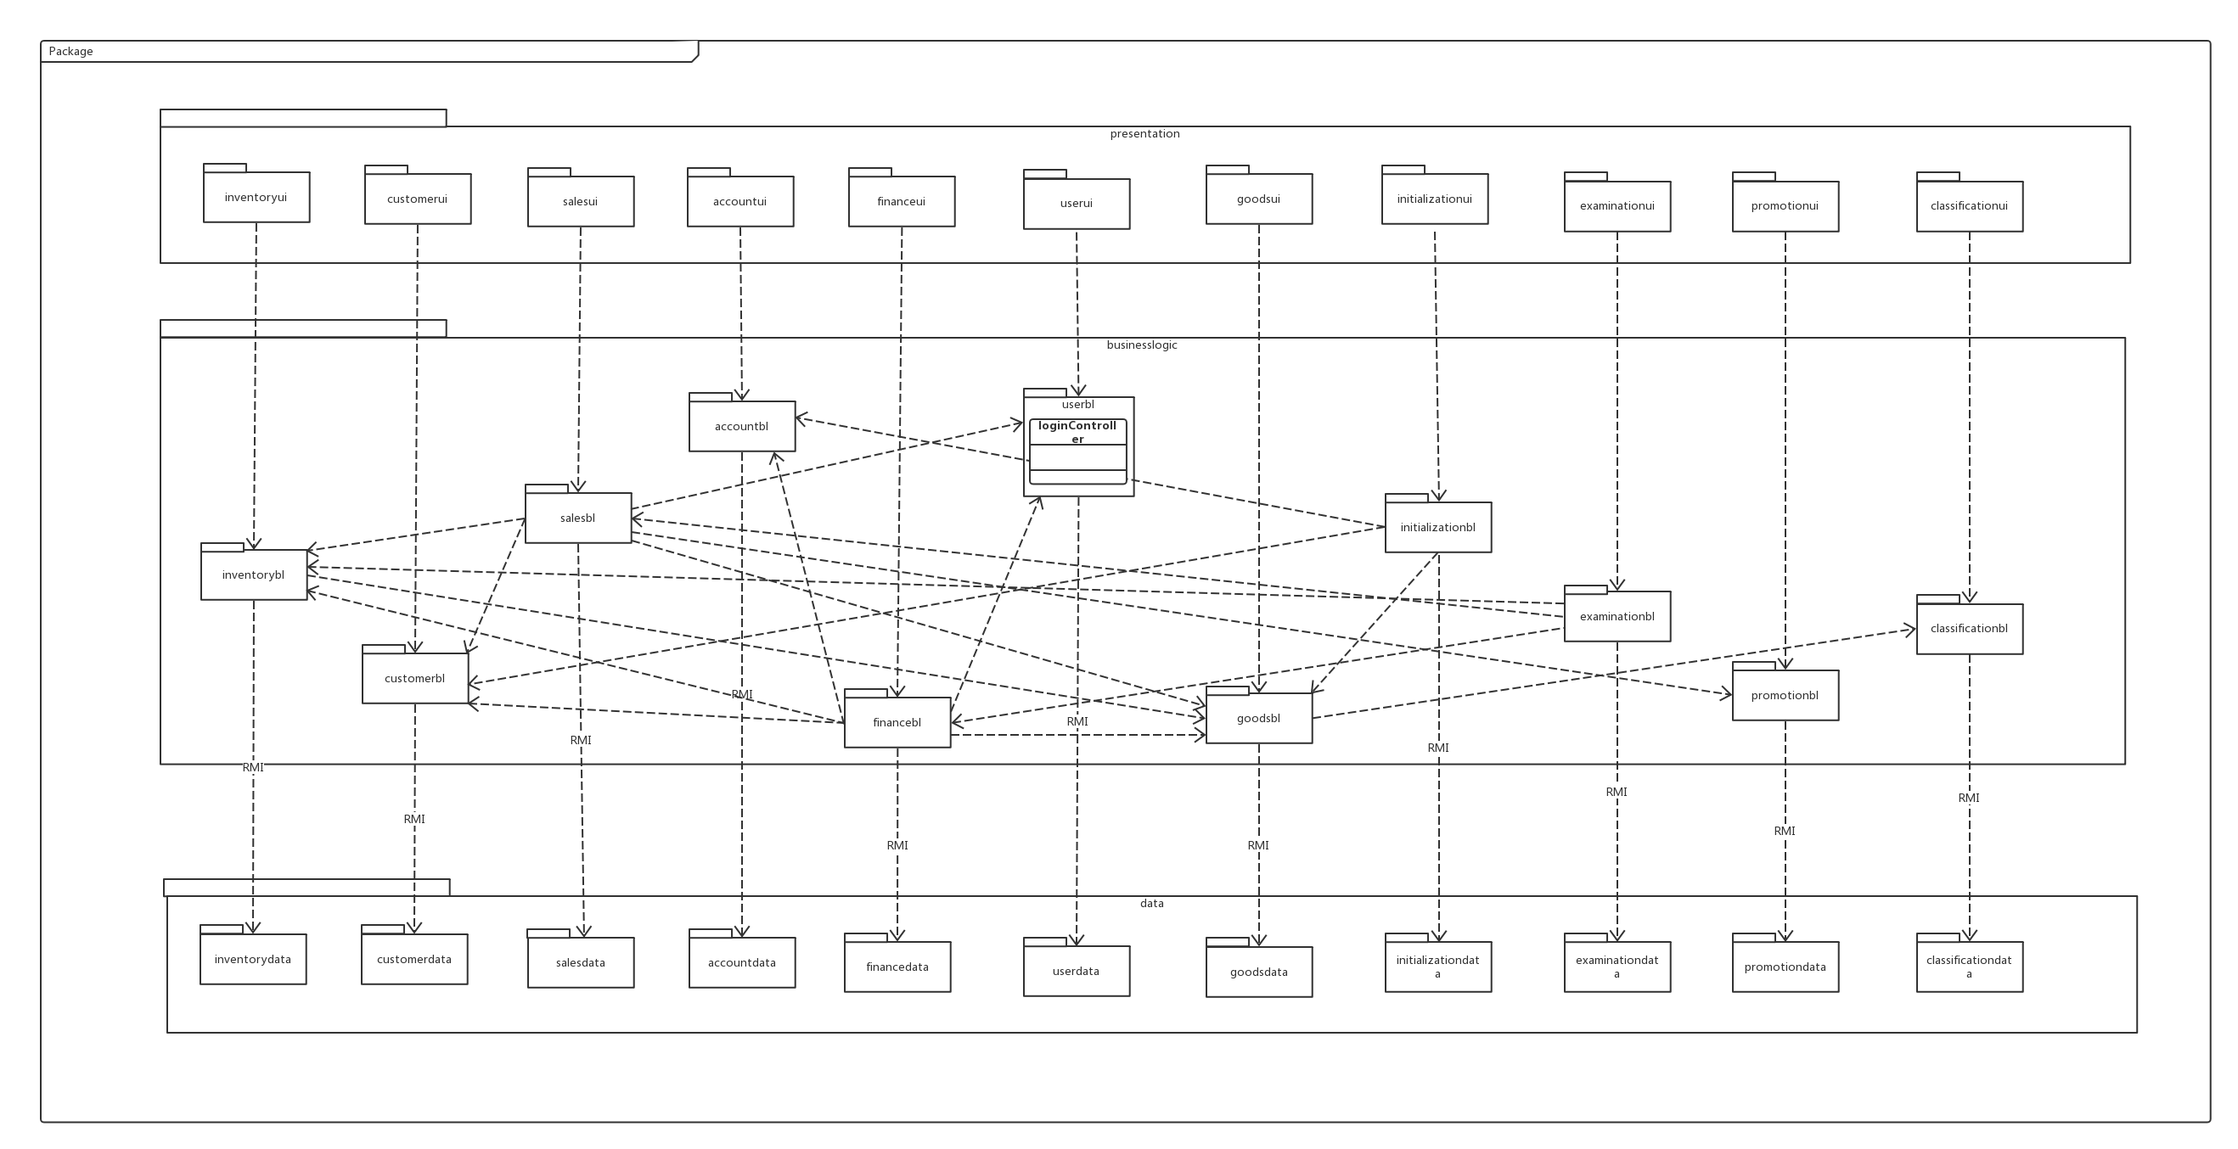
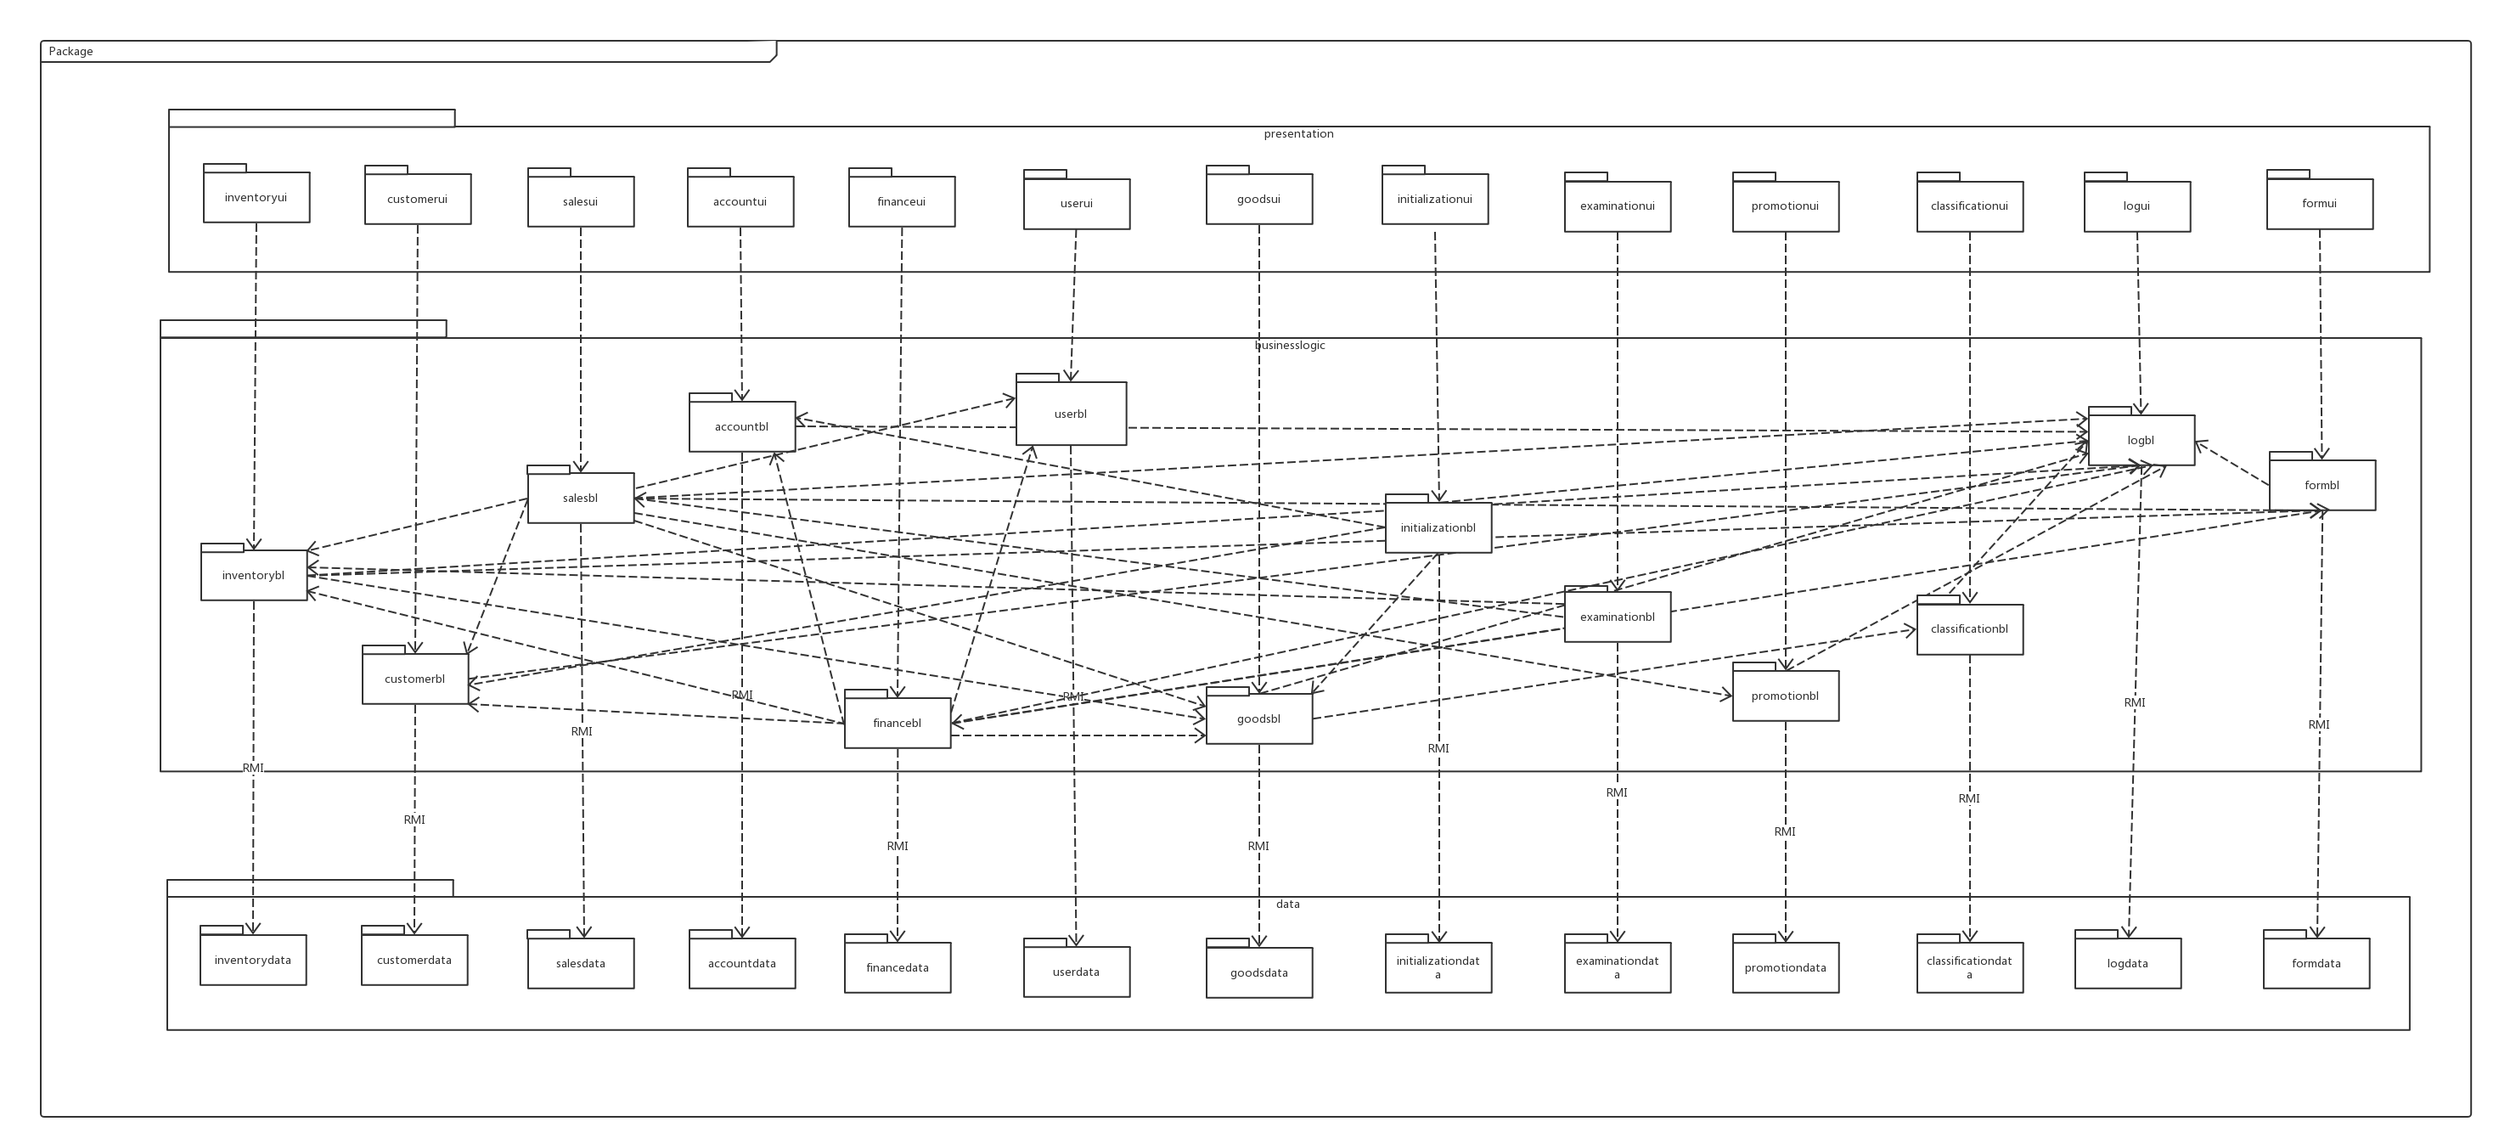
doc: modify doc

diff --git a/ERPClient/src/main/resources/css/main.css b/ERPClient/src/main/resources/css/main.css
@@ -86,3 +86,4 @@
     -fx-background-insets: 0, 1;
     -fx-padding: 1;
 }
+

diff --git a/ERPClient/src/main/java/bl/financialbl/CashBill.java b/ERPClient/src/main/java/bl/financialbl/CashBill.java
@@ -3,8 +3,11 @@ package bl.financialbl;
 import bl.accountbl.AccountBLFactory;
 import bl.accountbl.AccountController;
 import bl.logbl.LogBLFactory;
+import bl.messagebl.Message;
+import bl.messagebl.MessageBLFactory;
 import blservice.accountblservice.AccountInfo;
 import blservice.logblservice.LogInfo;
+import blservice.messageblservice.MessageInfo;
 import blservice.userblservice.UserInfo;
 import com.sun.org.apache.regexp.internal.RE;
 import dataimpl.financedataimpl.FinanceDataServiceImpl;
@@ -22,21 +25,24 @@ import vo.CashBillVO;
 import javax.persistence.criteria.CriteriaBuilder;
 import java.rmi.RemoteException;
 import java.time.LocalDate;
+import java.time.LocalDateTime;
 import java.util.ArrayList;
 
 /**
  * Created by Kry·L on 2017/11/5.
  */
 public class CashBill {
-
     private FinanceDataService financeDataService;
     private LogInfo logInfo;
+    private MessageInfo messageInfo;
+    private AccountInfo accountInfo;
+
     ArrayList<CashBillPO> cashBillPOS;
-    AccountInfo accountInfo;
 
     public CashBill(){
         financeDataService = FinanceDataServiceImpl.getInstance();
         logInfo = LogBLFactory.getInfo();
+        messageInfo = MessageBLFactory.getInfo();
         accountInfo = AccountBLFactory.getInfo();
         cashBillPOS = new ArrayList<>();
     }
@@ -48,8 +54,10 @@ public class CashBill {
         CashBillPO po = voTopo(vo);
         ResultMessage re = financeDataService.addBill(po);
 
+        /**如果提交成功，就记录日志，并向总经理发送审批消息**/
         if (re == ResultMessage.SUCCESS){
-            logInfo.record(OperationType.REDCOVERANDCOPY,OperationObjectType.BILL,po.toString());
+            logInfo.record(OperationType.ADD, OperationObjectType.BILL, po.toString());
+            messageInfo.addMessage(vo.state,vo.ID, LocalDateTime.now().toString(),UserPosition.FINANCIAL_STAFF);
         }
         return re;
     }
@@ -57,7 +65,7 @@ public class CashBill {
         CashBillPO po = voTopo(vo);
         ResultMessage re = financeDataService.addBill(po);
         if (re == ResultMessage.SUCCESS){
-            logInfo.record(OperationType.REDCOVERANDCOPY,OperationObjectType.BILL,po.toString());
+            logInfo.record(OperationType.ADD,OperationObjectType.BILL,po.toString());
         }
         return re;
     }
@@ -81,7 +89,7 @@ public class CashBill {
                 }
                 ResultMessage re = financeDataService.updateBill(po);
                 if (re == ResultMessage.SUCCESS){
-                    logInfo.record(OperationType.REDCOVERANDCOPY,OperationObjectType.BILL,po.toString());
+                    logInfo.record(OperationType.UPDATE,OperationObjectType.BILL,po.toString());
                 }
                 return re;
             }
@@ -98,7 +106,7 @@ public class CashBill {
             if (po.getTurn() == turn) {
                 ResultMessage re = financeDataService.deleteBill(po);
                 if (re == ResultMessage.SUCCESS) {
-                    logInfo.record(OperationType.REDCOVERANDCOPY, OperationObjectType.BILL, po.toString());
+                    logInfo.record(OperationType.DELETE, OperationObjectType.BILL, po.toString());
                 }
                 return re;
             }
@@ -110,9 +118,12 @@ public class CashBill {
         logInfo.close();
         ResultMessage re = update(vo);
         logInfo.open();
-        if (vo.state == BillState.PASS) {
+
+        /**如果审批成功，就记录日志，并且向单据制定人员发送消息**/
+        if (vo.state != BillState.SUBMITTED && re == ResultMessage.SUCCESS) {
             accountInfo.changeMoney(vo.accountID, -vo.sum);
-            logInfo.record(OperationType.REDCOVERANDCOPY, OperationObjectType.BILL, voTopo(vo).toString());
+            logInfo.record(OperationType.EXAMINE, OperationObjectType.BILL, voTopo(vo).toString());
+            messageInfo.addMessage(vo.state,vo.ID,LocalDateTime.now().toString(),UserPosition.FINANCIAL_STAFF);
         }
         return re;
     }
@@ -182,7 +193,7 @@ public class CashBill {
         ResultMessage re = examine(billVO);
         logInfo.open();
         if (re == ResultMessage.SUCCESS) {
-            logInfo.record(OperationType.REDCOVERANDCOPY, OperationObjectType.BILL, voTopo(billVO).toString());
+            logInfo.record(OperationType.REDCOVER, OperationObjectType.BILL, voTopo(billVO).toString());
         }
         return re;
     }

diff --git a/ERPClient/src/main/java/ui/viewcontroller/InventoryStaff/InventoryGoodsController.java b/ERPClient/src/main/java/ui/viewcontroller/InventoryStaff/InventoryGoodsController.java
@@ -8,10 +8,12 @@ import com.jfoenix.controls.JFXTextField;
 import javafx.collections.FXCollections;
 import javafx.collections.ObservableList;
 import javafx.concurrent.Task;
+import javafx.event.EventHandler;
 import javafx.fxml.FXML;
 import javafx.scene.Node;
 import javafx.scene.control.*;
 import javafx.scene.control.cell.PropertyValueFactory;
+import javafx.scene.input.KeyEvent;
 import ui.component.DialogFactory;
 import ui.component.Table;
 import util.ResultMessage;
@@ -51,6 +53,7 @@ public class InventoryGoodsController {
             t.setDaemon(true);
             return t;
         });
+
         goodsBLService = GoodsBLFactory.getBLService();
         searchIcon.setText("\ue69d");
 
@@ -84,6 +87,13 @@ public class InventoryGoodsController {
         table.addColumn("最近零售价","salesPrice",70);
 
         TablePane.setContent(table.getTable());
+
+        SearchField.setOnKeyReleased(new EventHandler<KeyEvent>() {
+            @Override
+            public void handle(KeyEvent event) {
+                clickSearchButton();
+            }
+        });
     }
     public void showGoods(){
         data.clear();

diff --git a/ERPClient/src/main/java/bl/financialbl/AccountBill.java b/ERPClient/src/main/java/bl/financialbl/AccountBill.java
@@ -224,6 +224,7 @@ public class AccountBill {
     }
 
     public ResultMessage redCoverAndCopy(AccountBillVO billVO) throws RemoteException {
+        /**将log上锁**/
         logInfo.close();
         redCover(billVO);
         String ID = "";

diff --git a/doc/灯具进销存管理系统（体系结构设计v1.0）.md b/doc/灯具进销存管理系统（体系结构设计v1.0）.md
@@ -71,35 +71,35 @@
 
 | 开发（物理）包                   | 依赖的其他开发包                                 |
 | ------------------------- | ---------------------------------------- |
-| mainui                    | inventoryui,customerui,salesui,accountui,financeui,userui,goodsui,initializationui,examinationui,promotionui,vo |
+| mainui                    | inventoryui,customerui,salesui,accountui,financeui,formui,userui,goodsui,initializationui,examinationui,promotionui,logui,vo |
 | inventoryui               | inventoryblservice,界面类库包,vo              |
 | inventoryblservice        |                                          |
-| inventorybl               | inventoryblservice,inventorydataservice,goodsbl, salesbl |
+| inventorybl               | inventoryblservice,inventorydataservice,goodsbl, salesbl, logbl |
 | inventorydataservice      | Java RMI,po                              |
 | inventorydata             | inventorydataservice,po,databaseutility  |
 | classificationui          | classificationblservice,界面类库包,vo         |
 | classificationblservice   |                                          |
-| classificationbl          | classificationblservice，classficationdataservice |
+| classificationbl          | classificationblservice，classficationdataservice,logbl |
 | classificationdataservice | Java RMI,po                              |
 | classificationdata        | classificationdataservice,po,databaseutility |
 | customerui                | customerblservice,界面类库包,vo               |
 | customerblservice         |                                          |
-| customerbl                | customerblservice,customerdataservice    |
+| customerbl                | customerblservice,customerdataservice,logbl    |
 | customerdataservice       | Java RMI,po                              |
 | customerdata              | customerdataservice,po,databaseutility   |
 | salesui                   | salesblservice,界面类库包,vo                  |
 | salesblservice            |                                          |
-| salesbl                   | salesblservice,salesdataservice,userbl,customerbl,inventorybl,promotionbl,goodsbl |
+| salesbl                   | salesblservice,salesdataservice,userbl,customerbl,inventorybl,promotionbl,goodsbl,logbl |
 | salesdataservice          | Java RMI,po                              |
 | salesdata                 | salesdataservice,po,databaseutility      |
 | accountui                 | accountblservice,界面类库包,vo                |
 | accountblservice          |                                          |
-| accountbl                 | accountblservice,accountdataservice      |
+| accountbl                 | accountblservice,accountdataservice,logbl      |
 | accountdataservice        | Java RMI,po                              |
 | accountdata               | accountdataservice,po,databaseutility    |
 | financeui                 | financeblservice,界面类库包,vo                |
 | financeblservice          |                                          |
-| financebl                 | financeblservice,financedataservice,goodsbl,customerbl,accountbl,userbl,inventorybl, |
+| financebl                 | financeblservice,financedataservice,goodsbl,customerbl,accountbl,userbl,inventorybl,logbl |
 | financedataservice        | Java RMI,po                              |
 | financedata               | financedataservice,po,databaseutility    |
 | userui                    | userblservice,界面类库包,vo                   |
@@ -109,12 +109,12 @@
 | userdata                  | userdataservice,po,databaseutility       |
 | goodsui                   | goodsblservice,界面类库包,vo                  |
 | goodsblservice            |                                          |
-| goodsbl                   | goodsblservice,goodsdataservice,classificationbl |
+| goodsbl                   | goodsblservice,goodsdataservice,classificationbl,logbl |
 | goodsdataservice          | Java RMI,po                              |
 | goodsdata                 | goodsdataservice,po,databaseutility      |
 | initializationui          | initializationblservice,界面类库包,vo         |
 | initializationblservice   |                                          |
-| initializationbl          | initializationblservice,initializationbl,accountbl,customerbl,goodsbl |
+| initializationbl          | initializationblservice,initializationbl,accountbl,customerbl,goodsbl,logbl |
 | initializationdataservice | Java RMI,po                              |
 | initializationdata        | initializationdataservice,po,databaseutility |
 | examinationui             | examinationblservice,界面类库包,vo            |
@@ -124,9 +124,19 @@
 | examinationdata           | examinationdataservice,po,databaseutility |
 | promotionui               | promotionblservice,界面类库包,vo              |
 | promotionblservice        |                                          |
-| promotionbl               | promotionblservice,promotiondataservice  |
+| promotionbl               | promotionblservice,promotiondataservice,logbl  |
 | promotiondataservice      | Java RMI,po                              |
 | promotiondata             | promotiondataservice,po,databaseutility  |
+| formui               | formblservice,界面类库包,vo              |
+| formblservice        |                                          |
+| formbl               | formblservice,formdataservice,salesbl,inventorybl,financebl,logbl  |
+| formdataservice      | Java RMI,po                              |
+| formdata             | formdataservice,po,databaseutility  |
+| logui               | logblservice,界面类库包,vo              |
+| logblservice        |                                          |
+| logbl               | logblservice,logdataservice  |
+| logdataservice      | Java RMI,po                              |
+| logdata             | logdataservice,po,databaseutility  |
 | vo                        |                                          |
 | po                        |                                          |
 | utilitybl                 |                                          |
@@ -198,8 +208,8 @@
 
 | 接口                                       | 服务调用方    | 服务提供方    |
 | ---------------------------------------- | -------- | -------- |
-| InventoryBLService<br>CustomerBLService<br>SalesBLService<br>AccountBLService<br>FinanceBLService<br>UserBLService<br>GoodsBLService<br>ClassificationBLService<br>InitializationBLService<br>ExaminationBLService<br>PromotionBLService<br> | 客户端展示层   | 客户端业务逻辑层 |
-| InventoryDataService<br>CustomerDataService<br>SalesDataService<br>AccountDataService<br>FinanceDataService<br>UserDataService<br>GoodsDataService<br>ClassificationDataService<br>ExaminationDataService<br>PromotionDataService<br>DatabaseFactory<br> | 客户端业务逻辑层 | 服务器端数据层  |
+| InventoryBLService<br>CustomerBLService<br>SalesBLService<br>AccountBLService<br>FinanceBLService<br>FormBLService<br>UserBLService<br>GoodsBLService<br>ClassificationBLService<br>InitializationBLService<br>ExaminationBLService<br>PromotionBLService<br> | 客户端展示层   | 客户端业务逻辑层 |
+| InventoryDataService<br>CustomerDataService<br>SalesDataService<br>AccountDataService<br>FinanceDataService<br>UserDataService<br>GoodsDataService<br>ClassificationDataService<br>PromotionDataService<br>DatabaseFactory<br> | 客户端业务逻辑层 | 服务器端数据层  |
 
 ## 5.2 用户界面层的分解
 
@@ -261,6 +271,8 @@
 | initializationbl | 负责期初建账界面所需要的服务        |
 | examinationbl    | 负责审批单据界面所需要的服务        |
 | promotionbl      | 负责促销策略界面所需要的服务        |
+| logbl    | 负责日志界面所需要的服务        |
+| formbl      | 负责财务报表界面所需要的服务        |
 
 ### 5.3.2 业务逻辑层模块的接口规范
 * 表 5.3.2-1 inventorybl模块的接口规范
@@ -1093,7 +1105,7 @@ tr>
   	<th colspan="3" align="center">提供的服务（供接口）</th>
   </tr>
   <tr>
-    	<td rowspan="3">Account.addAccount</td>
+    	<td rowspan="3">AccountBLService.addAccount</td>
         <td>语法</td>
         <td>public ResultMessage addAccount(AccountVO vo);</td></tr>
     <tr>
@@ -1104,9 +1116,9 @@ tr>
         <td>系统添加新的银行账户，持久化更新涉及的领域对象的数据</td>
     </tr>
     <tr>
-    	<td rowspan="3">Account.findAccount</td>
+    	<td rowspan="3">Account.findAccountByName</td>
         <td>语法</td>
-        <td>public ArrayList&lt;AccountVO&gt; findAccount(String keyword);</td></tr>
+        <td>public ArrayList&lt;AccountVO&gt; findAccountByName(String keyword);</td></tr>
     <tr>
     	<td>前置条件</td>
         <td>keyword符合输入规则</td></tr>
@@ -1144,28 +1156,24 @@ tr>
     <th>服务名</th>
     <th colspan="2">服务</th>
     </tr>
-    <tr>
-    <td>AccountDataService.find(String id)</td>
-    <td colspan="2">根据id进行查找单一持久化对象</td>
-    </tr>
      <tr>
-    <td>AccountDataService.find(String name)</td>
+    <td>AccountDataService.findByName(String name)</td>
     <td colspan="2">根据名称进行查找单一持久化对象</td>
     </tr>
     <tr>
-    <td>AccountDataService.add(AccountPO po)</td>
-    <td colspan="2">添加单一持久化对象</td>
+    <td>AccountDataService.addAccount(AccountPO po)</td>
+    <td colspan="2">添加一个单一持久化对象</td>
     </tr>
     <tr>
-    <td>AccountDataService.update(AccountPO po)</td>
+    <td>AccountDataService.updateAccount(AccountPO po)</td>
     <td colspan="2">更新单一持久化对象</td>
     </tr>
     <tr>
-    <td>AccountDataService.delete(AccountPO po)</td>
+    <td>AccountDataService.deleteAccount(AccountPO po)</td>
     <td colspan="2">删除单一持久化对象</td>
     </tr>
     <tr>
-    <td>AccountDataService.getAll()</td>
+    <td>AccountDataService.show()</td>
     <td colspan="2">返回所有单一持久化对象</td>
     </tr>
   </table>

diff --git a/doc/灯具进销存管理系统（测试报告 v1.0）.md b/doc/灯具进销存管理系统（测试报告 v1.0）.md
@@ -132,10 +132,10 @@ MSL系统的测试从2017-12-24开始持续到2018-1-2，共持续10天，按时
 |      | 创建账户         | 已执行  | 通过   |      |
 |      | 创建账户信息不完整    | 已执行  | 通过   |      |
 |      | 修改账户         | 已执行  | 通过   |      |
-|      | 修改账户信息不完整    | 已执行  | 不通过  |      |
+|      | 修改账户信息不完整    | 已执行  | 通过   |      |
 |      | 查询账户         | 已执行  | 通过   |      |
 |      | 创建收款单        | 已执行  | 通过   |      |
-|      | 收款单信息填写不完整   | 已执行  | 不通过  |      |
+|      | 收款单信息填写不完整   | 已执行  | 不通过  | 通过   |
 |      | 查看收款单        | 已执行  | 通过   |      |
 |      | 删除草稿收款单      | 已执行  |      |      |
 |      | 查看收款单详情      | 已执行  |      |      |
